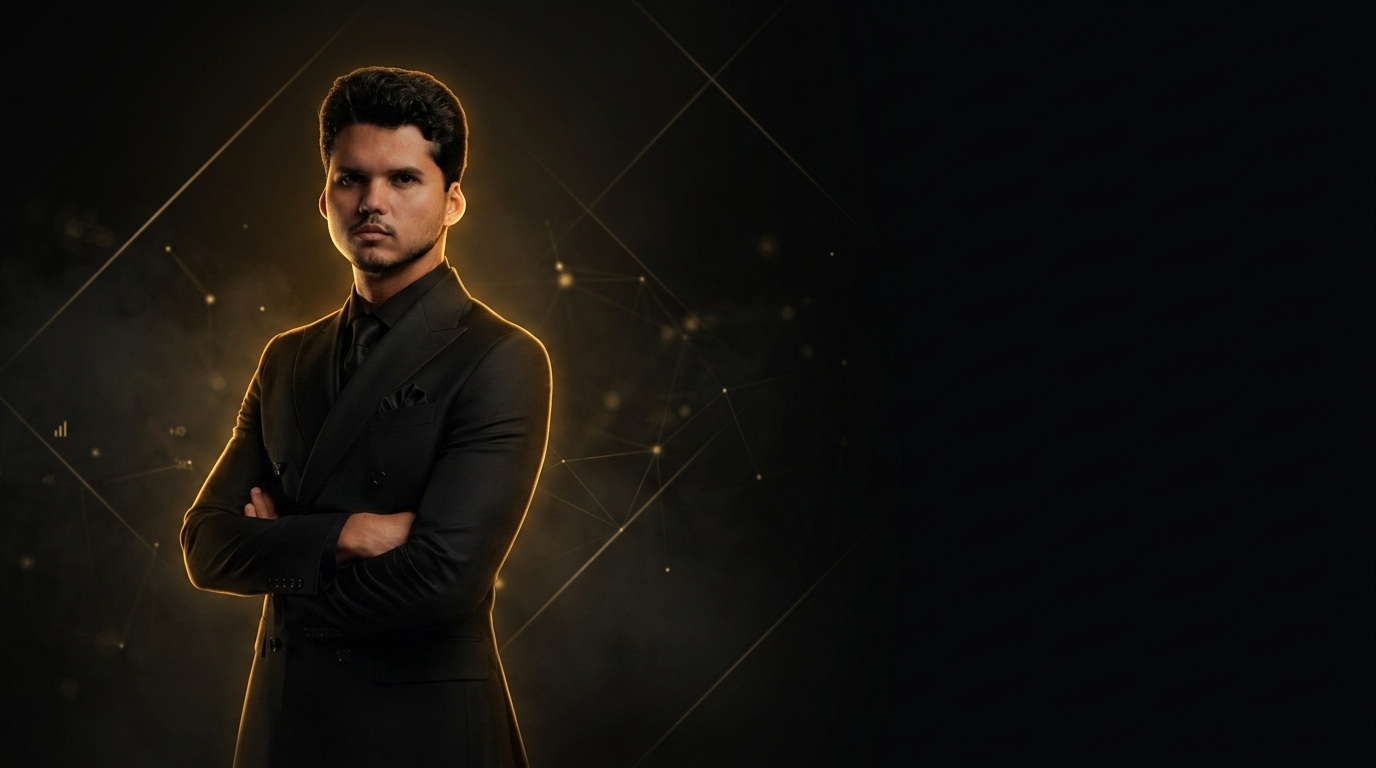
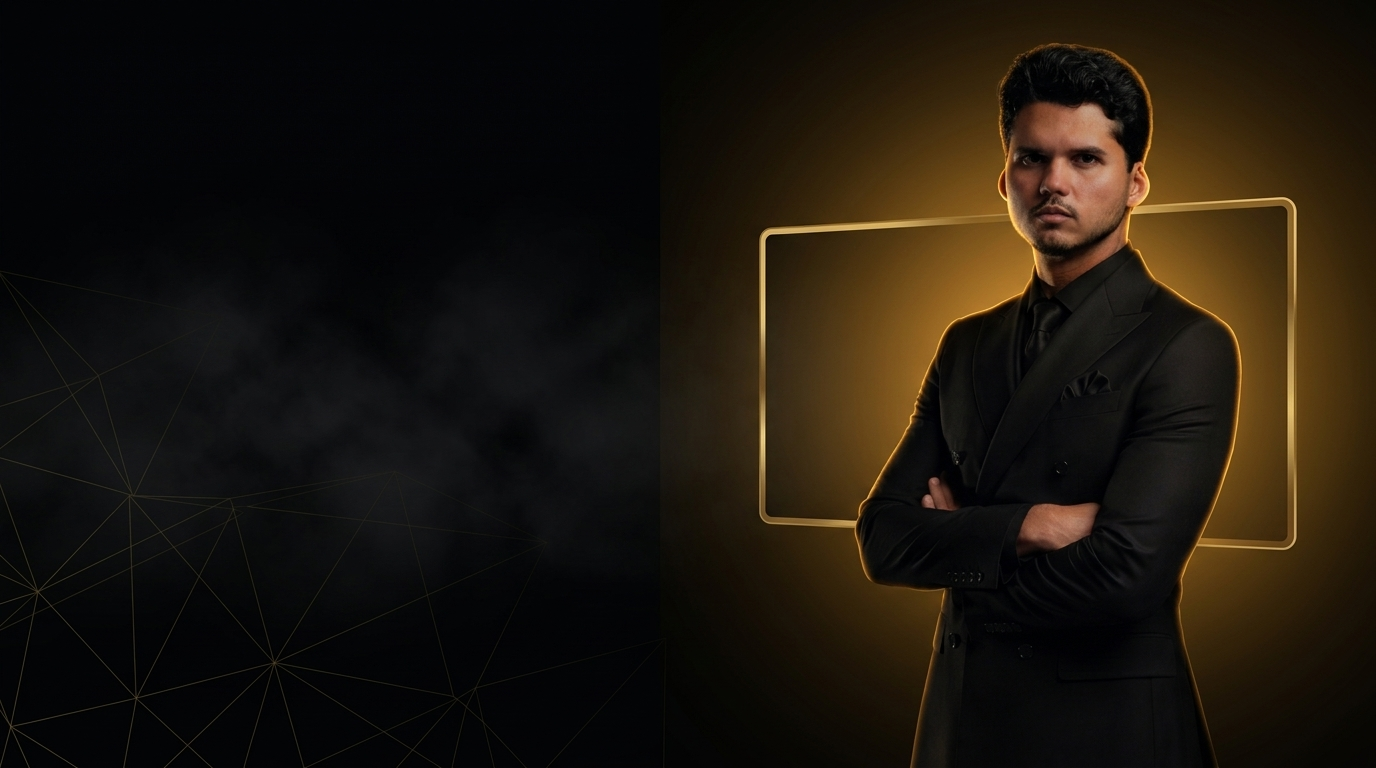
feat: hero desktop com jorge atras do video, player ampliado e badges em 4 colunas mantendo mobile intacto

diff --git a/index.html b/index.html
@@ -128,39 +128,52 @@
 
         </div>
 
-        <!-- Coluna 2: SOMENTE O VÍDEO / VSL LATERAL -->
+        <!-- Coluna 2: SOMENTE O VÍDEO / VSL LATERAL COM JORGE POR TRÁS -->
         <div class="hero-video-col">
           
-          <!-- Creator Visual Preview / VSL Component -->
-          <div class="vsl-module vsl-hero-prominent" id="vslModule">
-            <div class="vsl-viewport">
-              <img src="assets/vsl_preview.jpg" alt="Assistir Apresentação do Método PQP" class="vsl-thumb" />
-              <div class="vsl-vignette"></div>
-              
-              <div class="vsl-play-button">
-                <div class="play-pulse-ring"></div>
-                <i class="fa-solid fa-play"></i>
+          <div class="hero-video-stage">
+            <!-- Jorge de fundo atrás do player no desktop -->
+            <div class="hero-stage-creator-backdrop">
+              <img src="assets/hero_creator.png" alt="Jorge Moura - Founder" class="hero-stage-creator-img" />
+              <div class="hero-stage-creator-glow"></div>
+            </div>
+
+            <!-- Creator Visual Preview / VSL Component -->
+            <div class="vsl-module vsl-hero-prominent" id="vslModule">
+              <div class="vsl-viewport">
+                <img src="assets/vsl_preview.jpg" alt="Assistir Apresentação do Método PQP" class="vsl-thumb" />
+                <div class="vsl-vignette"></div>
+                
+                <div class="vsl-play-button">
+                  <div class="play-pulse-ring"></div>
+                  <i class="fa-solid fa-play"></i>
+                </div>
+
+                <div class="vsl-tag-top">
+                  <span class="pulse-red-dot"></span>
+                  <span>AULA REVELADORA LIBERADA</span>
+                </div>
+
+                <div class="vsl-time-pill">
+                  <i class="fa-solid fa-volume-high"></i>
+                  <span>04:18 • Assista com áudio</span>
+                </div>
               </div>
 
-              <div class="vsl-tag-top">
-                <span class="pulse-red-dot"></span>
-                <span>AULA REVELADORA LIBERADA</span>
-              </div>
-
-              <div class="vsl-time-pill">
-                <i class="fa-solid fa-volume-high"></i>
-                <span>04:18 • Assista com áudio</span>
+              <div class="vsl-bottom-bar">
+                <div class="vsl-track">
+                  <div class="vsl-fill"></div>
+                </div>
+                <div class="vsl-meta">
+                  <span><i class="fa-solid fa-shield-halved gold-icon"></i> Método Validado 2026</span>
+                  <span><i class="fa-solid fa-circle-check gold-icon"></i> 4K ULTRA HD</span>
+                </div>
               </div>
             </div>
 
-            <div class="vsl-bottom-bar">
-              <div class="vsl-track">
-                <div class="vsl-fill"></div>
-              </div>
-              <div class="vsl-meta">
-                <span><i class="fa-solid fa-shield-halved gold-icon"></i> Método Validado 2026</span>
-                <span><i class="fa-solid fa-circle-check gold-icon"></i> 4K ULTRA HD</span>
-              </div>
+            <div class="hero-stage-author-tag">
+              <i class="fa-solid fa-cross gold-icon"></i>
+              <span>Jorge Moura Jota • Founder @groupjota</span>
             </div>
           </div>
 

diff --git a/style.css b/style.css
@@ -1937,19 +1937,19 @@ body {
     width: 100%;
     height: 100%;
     object-fit: cover;
-    object-position: center left;
-    filter: contrast(1.06) brightness(0.92);
+    object-position: center right;
+    filter: contrast(1.06) brightness(0.9);
   }
   .hero-desktop-bg-shade {
     position: absolute;
     inset: 0;
-    background: linear-gradient(90deg, rgba(4, 4, 6, 0.85) 0%, rgba(4, 4, 6, 0.4) 45%, rgba(4, 4, 6, 0.92) 100%),
+    background: linear-gradient(90deg, rgba(4, 4, 6, 0.92) 0%, rgba(4, 4, 6, 0.6) 45%, rgba(4, 4, 6, 0.3) 100%),
                 linear-gradient(180deg, rgba(4, 4, 6, 0.4) 0%, transparent 25%, rgba(4, 4, 6, 0.95) 100%);
   }
   .hero-layout-grid {
     display: grid;
-    grid-template-columns: 1.12fr 0.88fr;
-    gap: 48px;
+    grid-template-columns: 1.05fr 1fr;
+    gap: 44px;
     align-items: center;
   }
   .hero-info-col {
@@ -1984,19 +1984,95 @@ body {
     justify-content: flex-start;
   }
   .trust-grid-2x2 {
+    display: grid;
+    grid-template-columns: repeat(4, 1fr);
+    gap: 8px;
     max-width: 100%;
     margin: 0;
   }
+  .trust-cell {
+    padding: 10px 8px;
+    flex-direction: column;
+    text-align: center;
+    align-items: center;
+  }
+  .trust-cell i {
+    margin-bottom: 4px;
+  }
+  .cell-text strong {
+    font-size: 0.74rem;
+  }
+  .cell-text small {
+    font-size: 0.62rem;
+  }
+
   .hero-video-col {
     display: flex;
     align-items: center;
     justify-content: center;
     width: 100%;
   }
+  .hero-video-stage {
+    position: relative;
+    width: 100%;
+    max-width: 580px;
+    display: flex;
+    flex-direction: column;
+    align-items: center;
+  }
+  .hero-stage-creator-backdrop {
+    display: block;
+    position: absolute;
+    top: -100px;
+    right: -25px;
+    width: 340px;
+    height: 500px;
+    z-index: 1;
+    pointer-events: none;
+    opacity: 0.88;
+  }
+  .hero-stage-creator-img {
+    width: 100%;
+    height: 100%;
+    object-fit: cover;
+    object-position: top center;
+    mask-image: linear-gradient(180deg, #000 65%, transparent 100%);
+    -webkit-mask-image: linear-gradient(180deg, #000 65%, transparent 100%);
+    filter: contrast(1.08) brightness(1);
+  }
+  .hero-stage-creator-glow {
+    position: absolute;
+    top: 30%;
+    left: 50%;
+    transform: translate(-50%, -50%);
+    width: 260px;
+    height: 260px;
+    background: radial-gradient(circle, rgba(229, 169, 60, 0.28) 0%, transparent 70%);
+    filter: blur(55px);
+  }
   .vsl-hero-prominent {
-    max-width: 100%;
-    margin: 0;
-    box-shadow: 0 20px 50px rgba(0, 0, 0, 0.95), 0 0 35px rgba(229, 169, 60, 0.18);
+    position: relative;
+    z-index: 3;
+    width: 100%;
+    max-width: 560px;
+    box-shadow: 0 25px 60px rgba(0, 0, 0, 0.95), 0 0 35px rgba(229, 169, 60, 0.2);
+  }
+  .hero-stage-author-tag {
+    position: relative;
+    z-index: 3;
+    margin-top: 14px;
+    display: inline-flex;
+    align-items: center;
+    gap: 8px;
+    background: rgba(10, 10, 15, 0.88);
+    border: 1px solid var(--border-gold);
+    border-radius: 30px;
+    padding: 6px 16px;
+    font-size: 0.75rem;
+    font-weight: 800;
+    color: var(--gold-light);
+    backdrop-filter: blur(10px);
+    box-shadow: 0 8px 20px rgba(0, 0, 0, 0.8);
   }
   
   /* Belief Cards in 2x2 grid */
